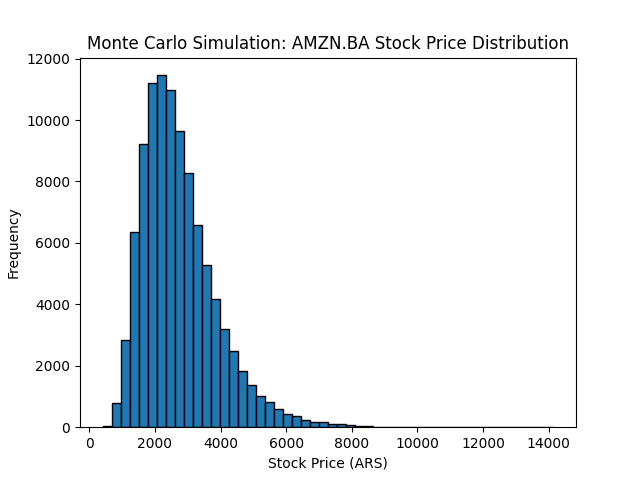
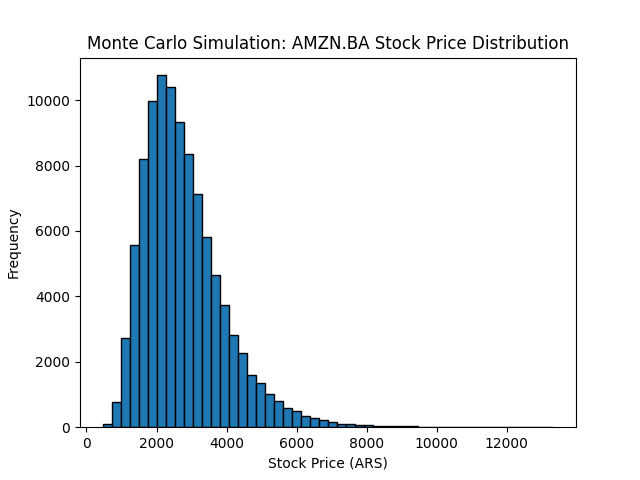
calculations of whole portfolio

diff --git a/finance/WholePortfolio.py b/finance/WholePortfolio.py
@@ -1,0 +1,194 @@
+import numpy as np
+import yfinance as yf
+import matplotlib.pyplot as plt
+import os
+import pandas as pd
+from datetime import datetime, timedelta
+
+import matplotlib
+matplotlib.use('Agg')  # Use non-interactive backend
+
+# Get the current working directory
+path = os.getcwd()
+
+# Define your portfolio with shares and purchase prices
+portfolio = {
+    'MELI.BA': {'shares': 2, 'purchase_price': 18300},  
+    'TSLA.BA': {'shares': 1, 'purchase_price': 26600},         
+    'AMZN.BA': {'shares': 2, 'purchase_price': 1706},
+    'GGAL.BA': {'shares': 2, 'purchase_price': 6480},  
+    'CRES.BA': {'shares': 16, 'purchase_price': 1245},         
+    'BBAR.BA': {'shares': 2, 'purchase_price': 6460},
+    'LEDE.BA': {'shares': 20, 'purchase_price': 1360},
+    'YPFD.BA': {'shares': 1, 'purchase_price': 39100}
+}
+# Monte Carlo Simulation Parameters
+days = 126  # Number of trading days in 6 months
+simulations = 100000  # Number of simulations
+
+
+# Risk-free rate calculation
+def get_risk_free_rate():
+    """
+    Get the risk-free rate using U.S. Treasury 10-Year yields from YFinance.
+    This example uses '^TNX' for the 10-Year Treasury Yield.
+    """
+    try:
+        # Fetch U.S. 10-Year Treasury yield data (^TNX)
+        tnx_data = yf.download("^TNX", start=datetime.today() - timedelta(days=365), end=datetime.today())
+        
+        if tnx_data.empty:
+            raise ValueError(f"No data available for ^TNX")
+        
+        tnx_data.columns = tnx_data.columns.droplevel(1)
+        # Use the last yield value (divide by 100 to convert % to decimal)
+        latest_yield = tnx_data['Adj Close'][-1] / 100
+        
+        # Convert annualized yield to 6-month equivalent
+        risk_free_rate = (1 + latest_yield) ** (days / 252) - 1
+        return risk_free_rate
+
+    except Exception as e:
+        print(f"Error fetching risk-free rate: {e}")
+        return 0.05  # Default to 5% annual rate if unavailable
+    
+    
+    
+# Initialize results for portfolio risk management
+portfolio_results = []
+portfolio_simulations = []  # Store total portfolio values for all simulations
+
+# Loop through each stock in the portfolio
+for ticker, details in portfolio.items():
+    shares = details['shares']
+    purchase_price = details['purchase_price']
+    print(f"Processing {ticker}...")
+
+    # Fetch historical data
+    csv_filename = f'{path}\\csv\\{ticker}_data.csv'
+    try:
+        data = yf.download(ticker, start='2024-01-01', end=datetime.today())
+        if data.empty:
+            raise ValueError(f"No data available for {ticker}")
+    except Exception as e:
+        print(f"Error downloading data for {ticker}: {e}")
+        continue
+
+    
+    data.to_csv(csv_filename)
+
+    # Calculate daily returns
+    data['Daily Return'] = data['Adj Close'].pct_change()
+
+    # Calculate mean and volatility from historical data in ARS
+    data['Log Return'] = np.log(data['Adj Close'] / data['Adj Close'].shift(1))
+    mu = data['Log Return'].mean() * 252  # Annualized log return
+    sigma = data['Log Return'].std() * np.sqrt(252)  # Annualized volatility
+
+    data.columns = data.columns.droplevel(1)  # Drop the 'Price' level in the multi-level columns
+
+    # Get the last stock price
+    initial_stock_price = data['Adj Close'][-1]
+    if np.isnan(initial_stock_price):  # Handle case where data might be missing
+        print(f"Skipping {ticker} due to insufficient data.")
+        continue
+
+    # Monte Carlo simulation
+    final_values = []
+    for _ in range(simulations):
+         # Simulate GBM daily returns
+        daily_returns = np.random.normal(mu / days, sigma / np.sqrt(days), days)
+        stock_price = initial_stock_price * np.exp(np.cumsum(daily_returns))[-1]
+        final_values.append(stock_price)
+
+    # Convert final values into a numpy array for analysis
+    final_values = np.array(final_values)
+
+    # Add the total value of this stock (price * shares) to the portfolio simulations
+    portfolio_simulations.append(final_values * shares)
+
+    # Calculate statistics
+    mean_final_price = np.mean(final_values)
+    percentile_5 = np.percentile(final_values, 5)  # 5th percentile (Value-at-Risk)
+    percentile_95 = np.percentile(final_values, 95)  # 95th percentile
+
+    # Assess total value of shares based on Monte Carlo results
+    mean_total_value = mean_final_price * shares
+    purchase_value = purchase_price * shares
+    risk_value_at_5th_percentile = percentile_5 * shares
+
+    # Save results for the portfolio
+    portfolio_results.append({
+        'Ticker': ticker,
+        'Shares': shares,
+        'Purchase Price per Share': purchase_price,
+        'Purchase Total Value': purchase_value,
+        'Mean Final Price per Share': mean_final_price,
+        'Mean Total Value': mean_total_value,
+        '5th Percentile Total Value (VaR)': risk_value_at_5th_percentile,
+        '95th Percentile Price per Share': percentile_95,
+    })
+
+    # Plot the histogram of final stock prices
+    plt.hist(final_values, bins=50, edgecolor='black')
+    
+    plt.title(f"Monte Carlo Simulation: {ticker} Stock Price Distribution")
+    plt.xlabel("Stock Price (ARS)")
+    plt.ylabel("Frequency")
+    plt.savefig(f"{path}\\png\\{ticker}_Histogram.png")
+    plt.close()  # Close the plot to free memory
+
+    print(f"{ticker} - Simulation complete.")
+    print("-" * 50)
+
+# Combine all simulations into total portfolio value
+portfolio_final_values = np.sum(portfolio_simulations, axis=0)
+
+# Plot the histogram of portfolio values
+plt.figure(figsize=(10, 6))
+plt.hist(portfolio_final_values, bins=50, edgecolor='black', alpha=0.7)
+plt.title("Monte Carlo Simulation: Portfolio Value Distribution")
+plt.xlabel("Portfolio Value (ARS)")
+plt.ylabel("Frequency")
+#plt.axvline(np.percentile(portfolio_final_values, 5), color='r', linestyle='dashed', linewidth=1.5, label="5th Percentile (VaR)")
+plt.axvline(np.mean(portfolio_final_values), color='g', linestyle='dashed', linewidth=1.5, label="Mean Portfolio Value")
+plt.axvline(np.percentile(portfolio_final_values, 95), color='b', linestyle='dashed', linewidth=1.5, label="95th Percentile")
+plt.axvline(np.percentile(portfolio_final_values, 5), color='r', linestyle='dashed', label="5th Percentile (VaR)")
+plt.text(x=percentile_5, y=100, s=f"VaR: {percentile_5:,.2f} ARS", color='red')
+
+plt.legend()
+plt.grid()
+
+
+
+# Create a summary DataFrame for portfolio results
+portfolio_df = pd.DataFrame(portfolio_results)
+
+# Display portfolio summary
+print(portfolio_df)
+
+risk_free_rate = get_risk_free_rate()
+print(f"Risk-Free Rate (6 months): {risk_free_rate:.2%}")
+
+# Calculate total portfolio metrics
+total_purchase_value = portfolio_df['Purchase Total Value'].sum()
+total_mean_value = portfolio_df['Mean Total Value'].sum()
+total_risk_value_at_5th_percentile = portfolio_df['5th Percentile Total Value (VaR)'].sum()
+sharpe_ratio = (mean_total_value - risk_free_rate) / np.std(portfolio_final_values)
+
+print("\nPortfolio Summary:")
+print(f"Total Purchase Value: ${total_purchase_value:,.2f} ARS")
+print(f"Total Mean Simulated Value: ${total_mean_value:,.2f} ARS")
+print(f"Total Value-at-Risk (5th Percentile): ${total_risk_value_at_5th_percentile:,.2f} ARS")
+print(f"Sharpe Ratio: ${sharpe_ratio:,.2f} ARS")
+
+
+
+plt.savefig(f"{path}\\png\\Portfolio_MonteCarlo_Histogram_whole.png")
+
+plt.show()
+plt.close()  # Close the plot to free memory
+# Save the portfolio results to a CSV file
+portfolio_df.to_csv(f"{path}\\csv\\portfolio_results_whole.csv", index=False)
+
+
